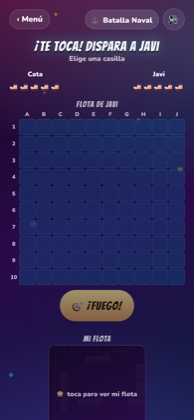
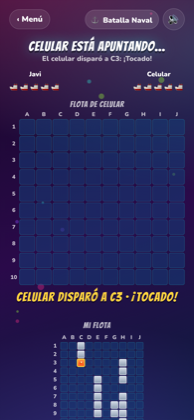
Batalla Naval: mejoras de usabilidad tras revisión visual (v0.6.1)
- Tableros del resultado sin desbordar; nombre y estadísticas en líneas propias
- Orientación del barco siempre visible en el botón Girar (↔/↕)
- Último disparo recibido resaltado en la flota propia
- '¡Tocado! Sigues disparando' sin signos duplicados

diff --git a/batalla-naval/game.js b/batalla-naval/game.js
@@ -162,11 +162,12 @@ function gridEl({ small = false, cellClass = () => '', onTap = null, id = null }
 }
 
 /** Clases de una casilla de mi propio tablero: barco + impactos recibidos. */
-function myCellClass(layout, shotsReceived) {
+function myCellClass(layout, shotsReceived, highlightLast = false) {
   const occ = occupancy(layout);
   const hit = {};
   shotsReceived.forEach(s => { hit[s.cell] = s.result; if (s.cells) s.cells.forEach(x => { hit[x] = 'hundido'; }); });
-  return (r, c) => { const n = cellName(r, c); return (occ[n] ? 'ship ' : '') + (hit[n] || ''); };
+  const last = highlightLast && shotsReceived.length ? shotsReceived[shotsReceived.length - 1].cell : null;
+  return (r, c) => { const n = cellName(r, c); return (occ[n] ? 'ship ' : '') + (hit[n] || '') + (n === last ? ' last' : ''); };
 }
 
 /** Clases de una casilla del tablero enemigo: mis disparos. */
@@ -274,7 +275,7 @@ function buildPlacement(role) {
     }
     const actions = $('#place-actions'); actions.innerHTML = '';
     actions.append(
-      el('button', { class: 'btn btn--ghost', onClick: () => { rotateSelected(); } }, T.rotate),
+      el('button', { class: 'btn btn--ghost', onClick: () => { rotateSelected(); } }, fmt(T.rotate, { dir: d.dir === 'h' ? '↔' : '↕' })),
       el('button', { class: 'btn btn--ghost', onClick: () => { d.layout = randomLayout(); d.sel = null; SFX.dice(); paint(); } }, T.random),
       el('button', { class: 'btn btn--ghost', onClick: () => { d.layout = {}; d.sel = FLEET[0].id; SFX.tap(); paint(); } }, T.clear),
     );
@@ -308,7 +309,7 @@ function buildPlacement(role) {
       const p = d.layout[d.sel]; const rotated = { ...p, dir: p.dir === 'h' ? 'v' : 'h' };
       if (isValidPlacement(d.layout, d.sel, rotated)) { d.layout[d.sel] = rotated; d.dir = rotated.dir; paint(); }
       else { const cell = cellAt(p.r, p.c); if (cell) flash(cell); }
-    } else { d.dir = d.dir === 'h' ? 'v' : 'h'; $('#place-hint').textContent = `${T.placeHint} (${d.dir === 'h' ? '↔' : '↕'})`; }
+    } else { d.dir = d.dir === 'h' ? 'v' : 'h'; paint(); }
   }
 
   function cellFromPoint(x, y) {
@@ -408,7 +409,7 @@ function renderPlay(v) {
   const lay = S.layouts[me]?.layout;
   if (lay) {
     const received = M.shots.filter(s => s.from === enemy && s.result !== null);
-    const g = gridEl({ small: true, cellClass: myCellClass(lay, received) });
+    const g = gridEl({ small: true, cellClass: myCellClass(lay, received, true) });
     const wrap = el('div', { class: 'mine-cover' + (S.mode !== 'local' || S.fleetShown ? ' shown' : '') }, g,
       el('div', { class: 'veil', onClick: e => { S.fleetShown = true; e.currentTarget.parentElement.classList.add('shown'); SFX.tap(); } }, `🙈 ${T.showFleet}`));
     mine.append(el('div', { class: 'board-title' }, T.myBoard), wrap);
@@ -448,7 +449,7 @@ function renderResult(v) {
   for (const r of ['A', 'B']) {
     const ver = M.verify[r];
     const received = repliesBy(other(r));
-    fleets.append(el('div', { class: 'f' }, el('small', {}, `${M.names[r]} · ${stats(r)}`), gridEl({ small: true, cellClass: myCellClass(M.reveals[r].layout, received) }), el('small', {}, S.mode === 'online' && ver ? (ver.ok ? T.verified : T.notVerified) : '')));
+    fleets.append(el('div', { class: 'f' }, el('b', {}, M.names[r]), el('small', {}, stats(r)), gridEl({ small: true, cellClass: myCellClass(M.reveals[r].layout, received) }), el('small', {}, S.mode === 'online' && ver ? (ver.ok ? T.verified : T.notVerified) : '')));
   }
   const replay = $('#result-replay'); if (!already) replay.open = false;
   const shotsBox = $('#result-shots'); shotsBox.innerHTML = '';

diff --git a/batalla-naval/rules.js b/batalla-naval/rules.js
@@ -24,16 +24,16 @@ const ES = {
   // colocación
   placeTitle: 'Coloca tu flota', placeFor: 'Flota de {name}', placeHint: 'Toca un barco y luego una casilla. Gira con ↻. Que nadie mire.',
   ships: { carrier: 'Portaaviones', battleship: 'Acorazado', cruiser: 'Crucero', submarine: 'Submarino', destroyer: 'Destructor' },
-  rotate: '↻ Girar', random: '🎲 Al azar', clear: '🧹 Limpiar', sail: '⚓ ¡Zarpar!', placed: '{n} de 5 barcos',
+  rotate: '↻ Girar {dir}', random: '🎲 Al azar', clear: '🧹 Limpiar', sail: '⚓ ¡Zarpar!', placed: '{n} de 5 barcos',
   fleetSaved: 'Flota lista 🔒', waitingFleet: 'Esperando a que {name} coloque su flota…', tapToReveal: 'Toca para ver', hoPass: 'Pásale el celular a', hoReady: '¡Listo, soy yo!',
   // batalla
-  turnYou: '¡Te toca! Dispara a {name}', turnOther: '{name} está apuntando…', extraGo: '¡{result}! Sigues disparando', waitingReply: 'Esperando la respuesta…',
+  turnYou: '¡Te toca! Dispara a {name}', turnOther: '{name} está apuntando…', extraGo: '{result} Sigues disparando', waitingReply: 'Esperando la respuesta…',
   fire: '🎯 ¡Fuego!', pickCell: 'Elige una casilla', enemyBoard: 'Flota de {name}', myBoard: 'Mi flota', showFleet: 'toca para ver mi flota', hideFleet: 'toca para ocultar',
   agua: 'Agua', tocado: '¡Tocado!', hundido: '¡Hundido!', sunkShip: 'Hundiste el {ship} de {name}', sunkMine: '¡Te hundieron el {ship}!',
   cpuShot: 'El celular disparó a {cell}: {result}', shotAt: '{name} disparó a {cell}',
   hoResult: 'Resultado', hoContinue: 'Seguir',
   // resultado
-  winTitle: '¡Ganó {name}!', youWin: '¡Ganaste!', youLose: 'Te hundieron… esta vez.', stats: '{shots} disparos · {acc}% de puntería', fleetsWere: 'Las flotas eran',
+  winTitle: '¡Ganó {name}!', youWin: '¡Ganaste!', youLose: 'Te hundieron… esta vez.', stats: '{shots} disparos · {acc}% puntería', fleetsWere: 'Las flotas eran',
   verified: 'verificado ✅', notVerified: '⚠ no coincide (¿trampa?)', replayTitle: '🔎 Ver todos los disparos', shotsOf: 'Disparos de {name}',
   rematch: '🔁 Revancha', changeMode: 'Cambiar modo', backMenu: 'Volver al menú',
 };
@@ -57,9 +57,9 @@ const EN = {
   resumeTitle: '⏯ There\'s an unfinished battle', resume: 'Continue', delete: 'Delete',
   placeTitle: 'Place your fleet', placeFor: '{name}\'s fleet', placeHint: 'Tap a ship, then a cell. Rotate with ↻. No peeking.',
   ships: { carrier: 'Carrier', battleship: 'Battleship', cruiser: 'Cruiser', submarine: 'Submarine', destroyer: 'Destroyer' },
-  rotate: '↻ Rotate', random: '🎲 Random', clear: '🧹 Clear', sail: '⚓ Set sail!', placed: '{n} of 5 ships',
+  rotate: '↻ Rotate {dir}', random: '🎲 Random', clear: '🧹 Clear', sail: '⚓ Set sail!', placed: '{n} of 5 ships',
   fleetSaved: 'Fleet ready 🔒', waitingFleet: 'Waiting for {name} to place their fleet…', tapToReveal: 'Tap to reveal', hoPass: 'Pass the phone to', hoReady: 'Ready, it\'s me!',
-  turnYou: 'Your turn! Fire at {name}', turnOther: '{name} is aiming…', extraGo: '{result}! Fire again', waitingReply: 'Waiting for the reply…',
+  turnYou: 'Your turn! Fire at {name}', turnOther: '{name} is aiming…', extraGo: '{result} Fire again', waitingReply: 'Waiting for the reply…',
   fire: '🎯 Fire!', pickCell: 'Pick a cell', enemyBoard: '{name}\'s fleet', myBoard: 'My fleet', showFleet: 'tap to show my fleet', hideFleet: 'tap to hide',
   agua: 'Miss', tocado: 'Hit!', hundido: 'Sunk!', sunkShip: 'You sank {name}\'s {ship}', sunkMine: 'They sank your {ship}!',
   cpuShot: 'The phone fired at {cell}: {result}', shotAt: '{name} fired at {cell}',

diff --git a/index.html b/index.html
@@ -10,8 +10,8 @@
   <meta name="description" content="Juegos de salón para jugar con amigos: elige un juego, ingresa a los jugadores y deja que el celular guíe la partida.">
   <link rel="manifest" href="manifest.webmanifest">
   <link rel="icon" href="assets/icon.svg" type="image/svg+xml">
-  <script type="importmap" id="importmap">{"imports": {"./assets/js/ui.js": "./assets/js/ui.js?v=0.6.0", "./assets/js/i18n.js": "./assets/js/i18n.js?v=0.6.0", "./assets/js/sound.js": "./assets/js/sound.js?v=0.6.0", "./assets/js/games.js": "./assets/js/games.js?v=0.6.0", "./assets/js/firebase-config.js": "./assets/js/firebase-config.js?v=0.6.0", "./assets/js/frases.js": "./assets/js/frases.js?v=0.6.0", "./cuarto-rey/game.js": "./cuarto-rey/game.js?v=0.6.0", "./cuarto-rey/rules.js": "./cuarto-rey/rules.js?v=0.6.0", "./toque-y-fama/game.js": "./toque-y-fama/game.js?v=0.6.0", "./toque-y-fama/rules.js": "./toque-y-fama/rules.js?v=0.6.0", "./toque-y-fama/engine.js": "./toque-y-fama/engine.js?v=0.6.0", "./assets/js/transport/local.js": "./assets/js/transport/local.js?v=0.6.0", "./assets/js/transport/firebase.js": "./assets/js/transport/firebase.js?v=0.6.0", "./assets/js/handoff.js": "./assets/js/handoff.js?v=0.6.0", "./batalla-naval/game.js": "./batalla-naval/game.js?v=0.6.0", "./batalla-naval/rules.js": "./batalla-naval/rules.js?v=0.6.0", "./batalla-naval/engine.js": "./batalla-naval/engine.js?v=0.6.0"}}</script>
-  <link rel="stylesheet" href="assets/css/base.css?v=0.6.0">
+  <script type="importmap" id="importmap">{"imports": {"./assets/js/ui.js": "./assets/js/ui.js?v=0.6.1", "./assets/js/i18n.js": "./assets/js/i18n.js?v=0.6.1", "./assets/js/sound.js": "./assets/js/sound.js?v=0.6.1", "./assets/js/games.js": "./assets/js/games.js?v=0.6.1", "./assets/js/firebase-config.js": "./assets/js/firebase-config.js?v=0.6.1", "./assets/js/frases.js": "./assets/js/frases.js?v=0.6.1", "./cuarto-rey/game.js": "./cuarto-rey/game.js?v=0.6.1", "./cuarto-rey/rules.js": "./cuarto-rey/rules.js?v=0.6.1", "./toque-y-fama/game.js": "./toque-y-fama/game.js?v=0.6.1", "./toque-y-fama/rules.js": "./toque-y-fama/rules.js?v=0.6.1", "./toque-y-fama/engine.js": "./toque-y-fama/engine.js?v=0.6.1", "./assets/js/transport/local.js": "./assets/js/transport/local.js?v=0.6.1", "./assets/js/transport/firebase.js": "./assets/js/transport/firebase.js?v=0.6.1", "./assets/js/handoff.js": "./assets/js/handoff.js?v=0.6.1", "./batalla-naval/game.js": "./batalla-naval/game.js?v=0.6.1", "./batalla-naval/rules.js": "./batalla-naval/rules.js?v=0.6.1", "./batalla-naval/engine.js": "./batalla-naval/engine.js?v=0.6.1"}}</script>
+  <link rel="stylesheet" href="assets/css/base.css?v=0.6.1">
   <style>
     .hero { text-align: center; padding: 28px 0 18px; }
     .hero .emoji { font-size: 3.2rem; display: block; margin-bottom: 6px; }
@@ -57,7 +57,7 @@
 
     <footer>
       <p class="footer-msg" id="footer-msg" aria-live="polite">Toma con responsabilidad y con agua a mano. Si manejas, no tomas. 🚕</p>
-      <p class="muted">v0.6.0 · <a href="https://github.com/ellokojavi/juegos-de-salon" style="color:inherit" data-i18n="code">código en GitHub</a></p>
+      <p class="muted">v0.6.1 · <a href="https://github.com/ellokojavi/juegos-de-salon" style="color:inherit" data-i18n="code">código en GitHub</a></p>
     </footer>
   </main>
 

diff --git a/batalla-naval/index.html b/batalla-naval/index.html
@@ -9,9 +9,9 @@
   <title>Batalla Naval ⚓ · Juegos de Salón</title>
   <link rel="manifest" href="../manifest.webmanifest">
   <link rel="icon" href="../assets/icon.svg" type="image/svg+xml">
-  <script type="importmap" id="importmap">{"imports": {"../assets/js/ui.js": "../assets/js/ui.js?v=0.6.0", "../assets/js/i18n.js": "../assets/js/i18n.js?v=0.6.0", "../assets/js/sound.js": "../assets/js/sound.js?v=0.6.0", "../assets/js/games.js": "../assets/js/games.js?v=0.6.0", "../assets/js/firebase-config.js": "../assets/js/firebase-config.js?v=0.6.0", "../assets/js/frases.js": "../assets/js/frases.js?v=0.6.0", "../cuarto-rey/game.js": "../cuarto-rey/game.js?v=0.6.0", "../cuarto-rey/rules.js": "../cuarto-rey/rules.js?v=0.6.0", "../toque-y-fama/game.js": "../toque-y-fama/game.js?v=0.6.0", "../toque-y-fama/rules.js": "../toque-y-fama/rules.js?v=0.6.0", "../toque-y-fama/engine.js": "../toque-y-fama/engine.js?v=0.6.0", "../assets/js/transport/local.js": "../assets/js/transport/local.js?v=0.6.0", "../assets/js/transport/firebase.js": "../assets/js/transport/firebase.js?v=0.6.0", "../assets/js/handoff.js": "../assets/js/handoff.js?v=0.6.0", "../batalla-naval/game.js": "../batalla-naval/game.js?v=0.6.0", "../batalla-naval/rules.js": "../batalla-naval/rules.js?v=0.6.0", "../batalla-naval/engine.js": "../batalla-naval/engine.js?v=0.6.0"}}</script>
-  <link rel="stylesheet" href="../assets/css/base.css?v=0.6.0">
-  <link rel="stylesheet" href="style.css?v=0.6.0">
+  <script type="importmap" id="importmap">{"imports": {"../assets/js/ui.js": "../assets/js/ui.js?v=0.6.1", "../assets/js/i18n.js": "../assets/js/i18n.js?v=0.6.1", "../assets/js/sound.js": "../assets/js/sound.js?v=0.6.1", "../assets/js/games.js": "../assets/js/games.js?v=0.6.1", "../assets/js/firebase-config.js": "../assets/js/firebase-config.js?v=0.6.1", "../assets/js/frases.js": "../assets/js/frases.js?v=0.6.1", "../cuarto-rey/game.js": "../cuarto-rey/game.js?v=0.6.1", "../cuarto-rey/rules.js": "../cuarto-rey/rules.js?v=0.6.1", "../toque-y-fama/game.js": "../toque-y-fama/game.js?v=0.6.1", "../toque-y-fama/rules.js": "../toque-y-fama/rules.js?v=0.6.1", "../toque-y-fama/engine.js": "../toque-y-fama/engine.js?v=0.6.1", "../assets/js/transport/local.js": "../assets/js/transport/local.js?v=0.6.1", "../assets/js/transport/firebase.js": "../assets/js/transport/firebase.js?v=0.6.1", "../assets/js/handoff.js": "../assets/js/handoff.js?v=0.6.1", "../batalla-naval/game.js": "../batalla-naval/game.js?v=0.6.1", "../batalla-naval/rules.js": "../batalla-naval/rules.js?v=0.6.1", "../batalla-naval/engine.js": "../batalla-naval/engine.js?v=0.6.1"}}</script>
+  <link rel="stylesheet" href="../assets/css/base.css?v=0.6.1">
+  <link rel="stylesheet" href="style.css?v=0.6.1">
 </head>
 <body>
   <main class="app" id="app">

diff --git a/toque-y-fama/index.html b/toque-y-fama/index.html
@@ -9,9 +9,9 @@
   <title>Toque y Fama 🔢 · Juegos de Salón</title>
   <link rel="manifest" href="../manifest.webmanifest">
   <link rel="icon" href="../assets/icon.svg" type="image/svg+xml">
-  <script type="importmap" id="importmap">{"imports": {"../assets/js/ui.js": "../assets/js/ui.js?v=0.6.0", "../assets/js/i18n.js": "../assets/js/i18n.js?v=0.6.0", "../assets/js/sound.js": "../assets/js/sound.js?v=0.6.0", "../assets/js/games.js": "../assets/js/games.js?v=0.6.0", "../assets/js/firebase-config.js": "../assets/js/firebase-config.js?v=0.6.0", "../assets/js/frases.js": "../assets/js/frases.js?v=0.6.0", "../cuarto-rey/game.js": "../cuarto-rey/game.js?v=0.6.0", "../cuarto-rey/rules.js": "../cuarto-rey/rules.js?v=0.6.0", "../toque-y-fama/game.js": "../toque-y-fama/game.js?v=0.6.0", "../toque-y-fama/rules.js": "../toque-y-fama/rules.js?v=0.6.0", "../toque-y-fama/engine.js": "../toque-y-fama/engine.js?v=0.6.0", "../assets/js/transport/local.js": "../assets/js/transport/local.js?v=0.6.0", "../assets/js/transport/firebase.js": "../assets/js/transport/firebase.js?v=0.6.0", "../assets/js/handoff.js": "../assets/js/handoff.js?v=0.6.0", "../batalla-naval/game.js": "../batalla-naval/game.js?v=0.6.0", "../batalla-naval/rules.js": "../batalla-naval/rules.js?v=0.6.0", "../batalla-naval/engine.js": "../batalla-naval/engine.js?v=0.6.0"}}</script>
-  <link rel="stylesheet" href="../assets/css/base.css?v=0.6.0">
-  <link rel="stylesheet" href="style.css?v=0.6.0">
+  <script type="importmap" id="importmap">{"imports": {"../assets/js/ui.js": "../assets/js/ui.js?v=0.6.1", "../assets/js/i18n.js": "../assets/js/i18n.js?v=0.6.1", "../assets/js/sound.js": "../assets/js/sound.js?v=0.6.1", "../assets/js/games.js": "../assets/js/games.js?v=0.6.1", "../assets/js/firebase-config.js": "../assets/js/firebase-config.js?v=0.6.1", "../assets/js/frases.js": "../assets/js/frases.js?v=0.6.1", "../cuarto-rey/game.js": "../cuarto-rey/game.js?v=0.6.1", "../cuarto-rey/rules.js": "../cuarto-rey/rules.js?v=0.6.1", "../toque-y-fama/game.js": "../toque-y-fama/game.js?v=0.6.1", "../toque-y-fama/rules.js": "../toque-y-fama/rules.js?v=0.6.1", "../toque-y-fama/engine.js": "../toque-y-fama/engine.js?v=0.6.1", "../assets/js/transport/local.js": "../assets/js/transport/local.js?v=0.6.1", "../assets/js/transport/firebase.js": "../assets/js/transport/firebase.js?v=0.6.1", "../assets/js/handoff.js": "../assets/js/handoff.js?v=0.6.1", "../batalla-naval/game.js": "../batalla-naval/game.js?v=0.6.1", "../batalla-naval/rules.js": "../batalla-naval/rules.js?v=0.6.1", "../batalla-naval/engine.js": "../batalla-naval/engine.js?v=0.6.1"}}</script>
+  <link rel="stylesheet" href="../assets/css/base.css?v=0.6.1">
+  <link rel="stylesheet" href="style.css?v=0.6.1">
 </head>
 <body>
   <main class="app" id="app">

diff --git a/cuarto-rey/index.html b/cuarto-rey/index.html
@@ -9,9 +9,9 @@
   <title>Cuarto Rey 👑 · Juegos de Salón</title>
   <link rel="manifest" href="../manifest.webmanifest">
   <link rel="icon" href="../assets/icon.svg" type="image/svg+xml">
-  <script type="importmap" id="importmap">{"imports": {"../assets/js/ui.js": "../assets/js/ui.js?v=0.6.0", "../assets/js/i18n.js": "../assets/js/i18n.js?v=0.6.0", "../assets/js/sound.js": "../assets/js/sound.js?v=0.6.0", "../assets/js/games.js": "../assets/js/games.js?v=0.6.0", "../assets/js/firebase-config.js": "../assets/js/firebase-config.js?v=0.6.0", "../assets/js/frases.js": "../assets/js/frases.js?v=0.6.0", "../cuarto-rey/game.js": "../cuarto-rey/game.js?v=0.6.0", "../cuarto-rey/rules.js": "../cuarto-rey/rules.js?v=0.6.0", "../toque-y-fama/game.js": "../toque-y-fama/game.js?v=0.6.0", "../toque-y-fama/rules.js": "../toque-y-fama/rules.js?v=0.6.0", "../toque-y-fama/engine.js": "../toque-y-fama/engine.js?v=0.6.0", "../assets/js/transport/local.js": "../assets/js/transport/local.js?v=0.6.0", "../assets/js/transport/firebase.js": "../assets/js/transport/firebase.js?v=0.6.0", "../assets/js/handoff.js": "../assets/js/handoff.js?v=0.6.0", "../batalla-naval/game.js": "../batalla-naval/game.js?v=0.6.0", "../batalla-naval/rules.js": "../batalla-naval/rules.js?v=0.6.0", "../batalla-naval/engine.js": "../batalla-naval/engine.js?v=0.6.0"}}</script>
-  <link rel="stylesheet" href="../assets/css/base.css?v=0.6.0">
-  <link rel="stylesheet" href="style.css?v=0.6.0">
+  <script type="importmap" id="importmap">{"imports": {"../assets/js/ui.js": "../assets/js/ui.js?v=0.6.1", "../assets/js/i18n.js": "../assets/js/i18n.js?v=0.6.1", "../assets/js/sound.js": "../assets/js/sound.js?v=0.6.1", "../assets/js/games.js": "../assets/js/games.js?v=0.6.1", "../assets/js/firebase-config.js": "../assets/js/firebase-config.js?v=0.6.1", "../assets/js/frases.js": "../assets/js/frases.js?v=0.6.1", "../cuarto-rey/game.js": "../cuarto-rey/game.js?v=0.6.1", "../cuarto-rey/rules.js": "../cuarto-rey/rules.js?v=0.6.1", "../toque-y-fama/game.js": "../toque-y-fama/game.js?v=0.6.1", "../toque-y-fama/rules.js": "../toque-y-fama/rules.js?v=0.6.1", "../toque-y-fama/engine.js": "../toque-y-fama/engine.js?v=0.6.1", "../assets/js/transport/local.js": "../assets/js/transport/local.js?v=0.6.1", "../assets/js/transport/firebase.js": "../assets/js/transport/firebase.js?v=0.6.1", "../assets/js/handoff.js": "../assets/js/handoff.js?v=0.6.1", "../batalla-naval/game.js": "../batalla-naval/game.js?v=0.6.1", "../batalla-naval/rules.js": "../batalla-naval/rules.js?v=0.6.1", "../batalla-naval/engine.js": "../batalla-naval/engine.js?v=0.6.1"}}</script>
+  <link rel="stylesheet" href="../assets/css/base.css?v=0.6.1">
+  <link rel="stylesheet" href="style.css?v=0.6.1">
 </head>
 <body>
   <main class="app" id="app">

diff --git a/batalla-naval/style.css b/batalla-naval/style.css
@@ -41,9 +41,9 @@
 .grid-wrap .cols { display: grid; grid-template-columns: repeat(10, 1fr); gap: 2px; }
 .grid-wrap .rows { display: grid; grid-template-rows: repeat(10, 1fr); gap: 2px; width: 18px; }
 .grid-wrap .lbl { color: var(--muted); font-weight: 900; font-size: 0.7rem; text-align: center; display: grid; place-items: center; }
-.grid { display: grid; grid-template-columns: repeat(10, 1fr); gap: 2px; aspect-ratio: 1; }
+.grid { display: grid; grid-template-columns: repeat(10, minmax(0, 1fr)); gap: 2px; aspect-ratio: 1; min-width: 0; }
 .cell {
-  aspect-ratio: 1; border-radius: 4px; background: rgba(20, 60, 120, 0.55); border: 1px solid rgba(46, 230, 214, 0.18);
+  min-width: 0; overflow: hidden; aspect-ratio: 1; border-radius: 4px; background: rgba(20, 60, 120, 0.55); border: 1px solid rgba(46, 230, 214, 0.18);
   display: grid; place-items: center; font-size: clamp(0.7rem, 3.2vw, 1.05rem); line-height: 1; position: relative; transition: background 0.15s, transform 0.1s;
 }
 .grid-wrap.small .cell { font-size: 0.55rem; border-radius: 2px; }
@@ -58,6 +58,8 @@
 .cell.hundido { background: linear-gradient(180deg, #ff2e88, #b3103f); border-color: #ffb3d1; box-shadow: 0 0 10px rgba(255, 46, 136, 0.6); }
 .cell.hundido::after { content: '🔥'; }
 .cell.ship.tocado::after, .cell.ship.hundido::after { content: '💥'; }
+.cell.last { outline: 2px solid var(--yellow); outline-offset: -1px; animation: lastPulse 1.2s ease-in-out infinite; }
+@keyframes lastPulse { 0%, 100% { box-shadow: 0 0 0 0 rgba(255, 210, 63, 0.6); } 50% { box-shadow: 0 0 8px 3px rgba(255, 210, 63, 0.35); } }
 .cell.aim { outline: 3px solid var(--yellow); outline-offset: -1px; transform: scale(1.12); z-index: 1; background: rgba(255, 210, 63, 0.35); }
 .cell.aim::after { content: '🎯'; }
 .enemy .cell:not(.agua):not(.tocado):not(.hundido) { cursor: pointer; }
@@ -105,7 +107,10 @@
 .result-hero { text-align: center; padding: 2px 0 6px; }
 .result-hero .trophy { font-size: 4.2rem; display: block; animation: pop 0.8s cubic-bezier(0.2, 0.9, 0.3, 1.4) both; }
 .fleets { display: grid; grid-template-columns: 1fr 1fr; gap: 10px; }
-.fleets .f { display: grid; justify-items: center; gap: 4px; }
+.fleets .f { display: grid; justify-items: center; gap: 4px; min-width: 0; }
+.fleets .f b { font-family: var(--font-display); font-size: 1.1rem; letter-spacing: 0.05em; }
+.fleets .grid-wrap.small { max-width: 100%; }
+.fleets .grid-wrap .lbl { font-size: 0.6rem; }
 .fleets .f small { color: var(--muted); font-weight: 800; text-align: center; }
 .replay { margin-top: 10px; padding: 12px 16px; }
 .replay summary { font-size: 1rem; }

diff --git a/CHANGELOG.md b/CHANGELOG.md
@@ -1,5 +1,8 @@
 # Changelog
 
+## 0.6.1 — 2026-09-08
+- Batalla Naval, mejoras de usabilidad tras revisión visual: tableros del resultado que ya no se salen de la pantalla; orientación del barco (↔/↕) siempre visible en el botón Girar; último disparo recibido resaltado en la flota propia; texto “¡Tocado! Sigues disparando” sin signos duplicados.
+
 ## 0.6.0 — 2026-09-08
 - Tercer juego: **Batalla Naval / Battleship** con tres modos (un celular, dos celulares sobre Firebase, contra el celular con IA). Colocación de flota por toque, girar, arrastrar y al azar; tiro extra al acertar; compromiso de la flota con hash y verificación; reconexión y revancha; sonidos de agua, impacto, hundimiento y sirena.
 - Módulos compartidos nuevos: `assets/js/transport/` (antes en Toque y Fama) y `assets/js/handoff.js`.
